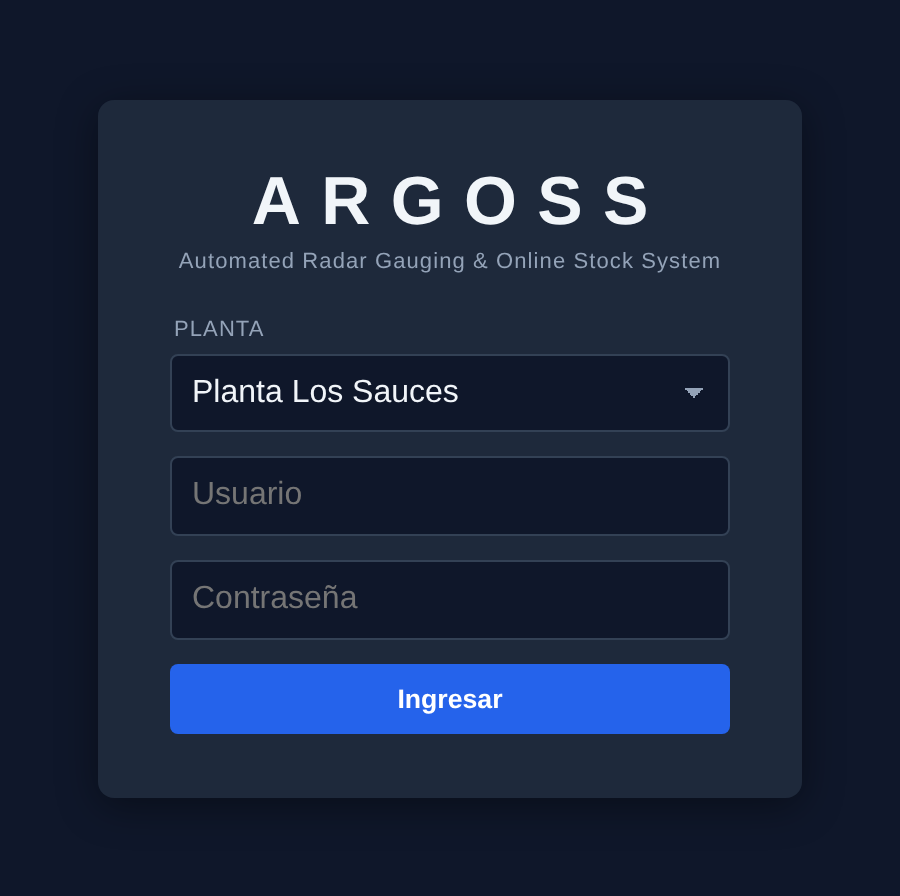
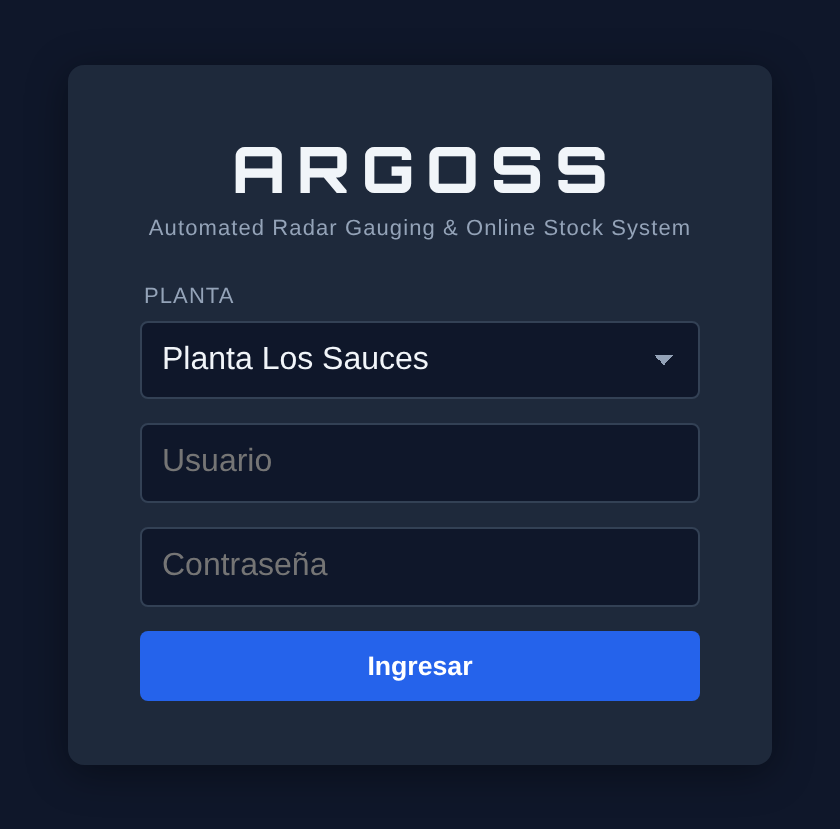
Logotipo ARGOSS en fuente Orbitron (cabecera, login y portal) (v3.0.5)
- public/fonts/orbitron-800.woff2 incluida en el proyecto (SIL OFL), servida sin sesión en /fonts
- deploy/publicar-portal.sh copia también la fuente al portal argoss.cl
- README y captura del login actualizados

Claude-Session: https://claude.ai/code/session_01Ftub8ftN3LoH3fT1tTzUjg

diff --git a/public/styles.css b/public/styles.css
@@ -1,3 +1,13 @@
+/* Fuente del logotipo ARGOSS: Orbitron 800 (SIL Open Font License, public/fonts/OFL-Orbitron.txt).
+   Incluida en el proyecto para no depender de Google Fonts (la red de planta puede bloquearlo). */
+@font-face {
+  font-family: "Orbitron";
+  font-style: normal;
+  font-weight: 800;
+  font-display: swap;
+  src: url("fonts/orbitron-800.woff2") format("woff2");
+}
+
 * {
   box-sizing: border-box;
 }
@@ -60,9 +70,11 @@ body {
 /* ===== MARCA ARGOSS (Automated Radar Gauging & Online Stock System) ===== */
 .header h1 .brand {
   display: block;
+  font-family: "Orbitron", "Consolas", monospace;
+  font-weight: 800;
   font-size: 1.15em;
-  letter-spacing: 0.32em;
-  margin-right: -0.32em;   /* compensa el espaciado de la última letra para centrar */
+  letter-spacing: 0.2em;
+  margin-right: -0.2em;    /* compensa el espaciado de la última letra para centrar */
   color: #0f172a;
 }
 
@@ -74,6 +86,7 @@ body {
 
 /* Versión + indicador ONLINE / OFFLINE, a la derecha de ARGOSS */
 .header h1 .brand-badges {
+  font-family: "Consolas", monospace;
   position: absolute;
   left: 100%;
   bottom: 0.35em;

diff --git a/public/login.html b/public/login.html
@@ -5,6 +5,14 @@
 <meta name="viewport" content="width=device-width, initial-scale=1">
 <title>ARGOSS · Acceso</title>
 <style>
+  /* Logotipo ARGOSS: Orbitron 800 (incluida en el proyecto, public/fonts/) */
+  @font-face {
+    font-family: "Orbitron";
+    font-style: normal;
+    font-weight: 800;
+    font-display: swap;
+    src: url("fonts/orbitron-800.woff2") format("woff2");
+  }
   body {
     margin: 0;
     height: 100vh;
@@ -25,9 +33,11 @@
   }
   .card h1 {
     color: #f1f5f9;
-    font-size: 34px;
-    letter-spacing: 0.3em;
-    margin: 0 -0.3em 4px 0;
+    font-family: "Orbitron", Arial, sans-serif;
+    font-weight: 800;
+    font-size: 32px;
+    letter-spacing: 0.18em;
+    margin: 0 -0.18em 4px 0;
   }
   .card .tagline {
     color: #94a3b8;

diff --git a/server.js b/server.js
@@ -167,6 +167,9 @@ app.get("/login.html", function (req, res) {
   res.sendFile(path.join(PUBLIC_DIR, "login.html"));
 });
 
+// Fuente del logotipo ARGOSS (Orbitron, incluida en el proyecto): la usa también el login
+app.use("/fonts", express.static(path.join(PUBLIC_DIR, "fonts")));
+
 // Lista de plantas para el selector del login. La planta de este servidor se marca "local"
 // para que su login se envíe aquí mismo (funciona también por IP, sin dominio).
 app.get("/plantas.json", function (req, res) {

diff --git a/README.md b/README.md
@@ -59,7 +59,7 @@ The page has five tabs. ARGOSS opens on **Totalizadores**, and the active tab is
 | **Indicadores** (indicators) | Last 30 days from history: per product, today's consumption, daily average, 30-day consumption and receptions with number of refills; daily consumption vs. reception chart; per-silo daily consumption table with totals, refills, discarded jumps (power cuts) and measured radar noise |
 | **Eventos** (events) | Event log of the last 3 months: status cards (communications now, silos without data now, today's alarms, today's refills and, for Admin, today's logins), category filters with counts, date / severity / silo / user filters, search, table grouped by day with live updates. See [Event log](#event-log-libeventosjs) |
 
-The header shows the Enaex logo with the **plant name** below it (taken from `plantas.json` using `PLANTA_ID`, so each plant server shows its own), **ARGOSS** with the **version number** next to it (hover to see the Git commit) and its meaning, *Automated Radar Gauging & Online Stock System*. Next to the version, a **signal indicator** shows **ONLINE** (green) when Matriz or Nitrate received MQTT data in the last 5 minutes and **OFFLINE** (red) otherwise; both systems share the HMI and broker, and the time of the last reading appears when hovering over it. On the right, the current user and the **Cerrar sesión** (logout) button, with the list of connected users right below them (centered on phones). The browser tab title is "ARGOSS · <plant>".
+The header shows the Enaex logo with the **plant name** below it (taken from `plantas.json` using `PLANTA_ID`, so each plant server shows its own), **ARGOSS** in the **Orbitron** typeface (also used on the login page) with the **version number** next to it (hover to see the Git commit) and its meaning, *Automated Radar Gauging & Online Stock System*. Next to the version, a **signal indicator** shows **ONLINE** (green) when Matriz or Nitrate received MQTT data in the last 5 minutes and **OFFLINE** (red) otherwise; both systems share the HMI and broker, and the time of the last reading appears when hovering over it. On the right, the current user and the **Cerrar sesión** (logout) button, with the list of connected users right below them (centered on phones). The browser tab title is "ARGOSS · <plant>".
 
 The top bar is shared by all tabs: REAL/DEMO selector (Admin only; other users always see REAL), the **Fecha** (date) selector for the charts and the download buttons (Admin only, shown according to the active tab).
 
@@ -219,7 +219,7 @@ The user picks the plant, enters their credentials, and the form is sent to that
 1. Register `argoss.cl` and create DNS **A records** pointing to the VM's static IP: `@`, `www` and `lossauces`.
 2. Open ports **80** and **443** in the cloud firewall.
 3. Install Nginx and Certbot: `sudo apt install nginx certbot python3-certbot-nginx`
-4. Publish the portal (copies `public/login.html` and `plantas.json` to `/var/www/argoss`). Run it again whenever the login or the plant list changes:
+4. Publish the portal (copies `public/login.html`, `plantas.json` and the `public/fonts/` typeface to `/var/www/argoss`). Run it again whenever the login or the plant list changes:
 
    ```sh
    bash deploy/publicar-portal.sh
@@ -319,6 +319,7 @@ scada-silos-bronces/
 │   ├── nitrato.js            ← Nitrate frontend
 │   ├── kpi.js                ← Indicators tab
 │   ├── eventos.js            ← Events tab
+│   ├── fonts/                ← Orbitron (ARGOSS logotype), bundled so no external font service is needed (SIL Open Font License)
 │   ├── styles.css
 │   └── logo.png
 ├── docs/demo.gif             ← README walkthrough
